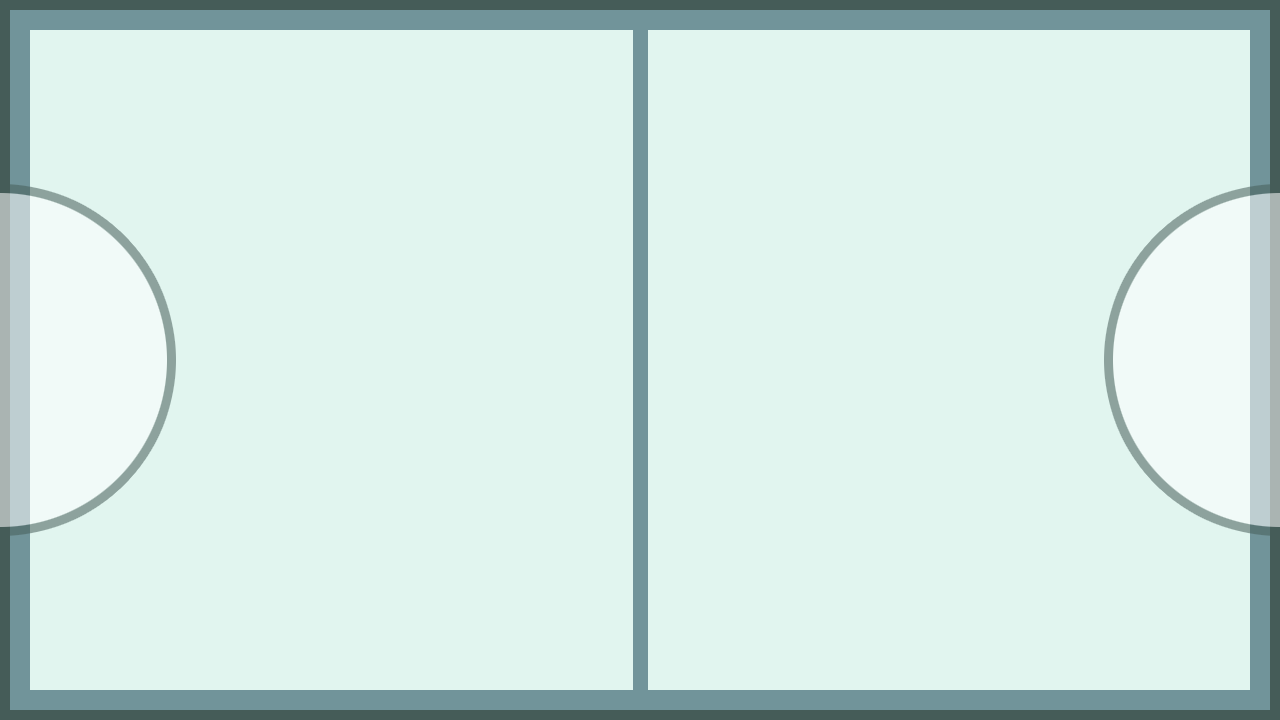
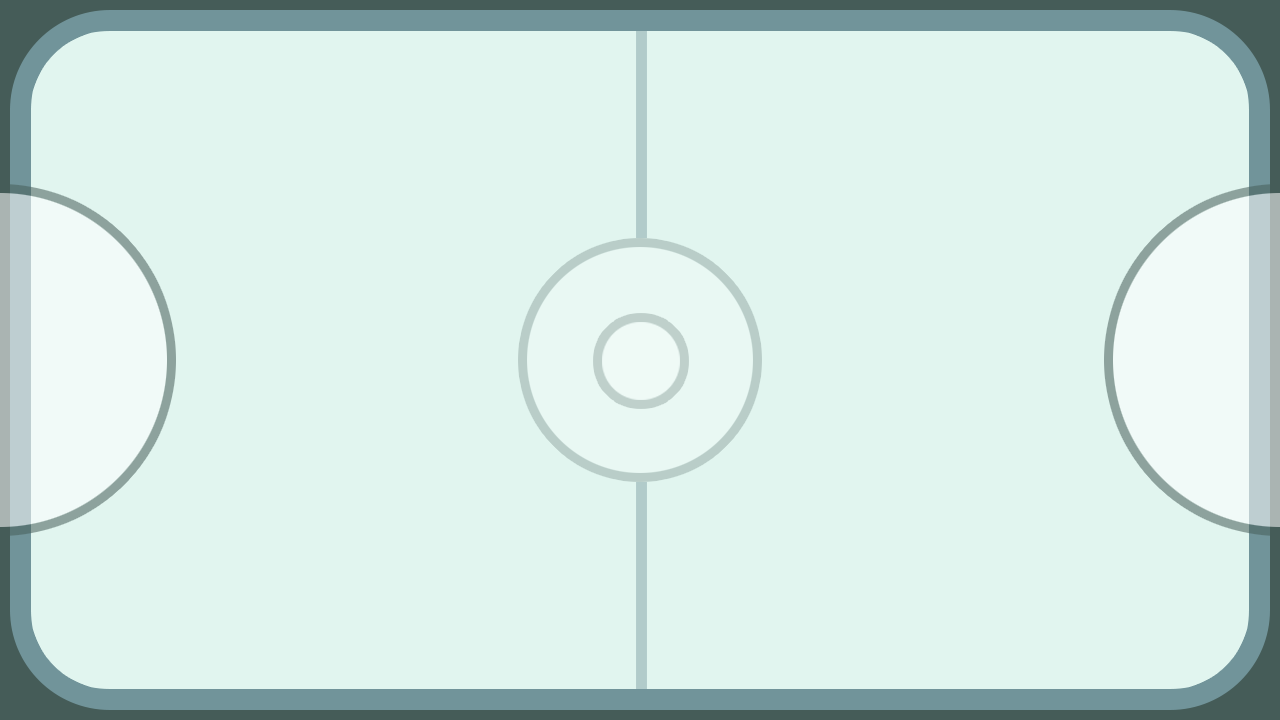
🔥  Added corners to Hockey

diff --git a/src/playground/spaces/Hockey.ts b/src/playground/spaces/Hockey.ts
@@ -1,18 +1,18 @@
 import { Engine } from '@ecs/ecs/Engine';
 import { Entity } from '@ecs/ecs/Entity';
+import { Query } from '@ecs/ecs/Query';
+import MathHelper from '@ecs/math/MathHelper';
 import PhysicsBody from '@ecs/plugins/physics/components/PhysicsBody';
 import PhysicsSystem from '@ecs/plugins/physics/systems/PhysicsSystem';
 import Position from '@ecs/plugins/Position';
 import Space from '@ecs/plugins/space/Space';
+import { all, makeQuery } from '@ecs/utils/QueryHelper';
 import Moveable from '../components/Moveable';
 import { Paddle } from '../components/Paddle';
 import { Puck } from '../components/Puck';
 import Score from '../components/Score';
 import { Wall } from '../components/Wall';
 import MovementSystem from '../systems/MovementSystem';
-import PuckScoreSystem from '../systems/PuckScoreSystem';
-import { Query } from '@ecs/ecs/Query';
-import { makeQuery, all } from '@ecs/utils/QueryHelper';
 
 // http://www.iforce2d.net/b2dtut/collision-filtering
 export enum CollisionCategory {
@@ -124,7 +124,57 @@ export default class Hockey extends Space {
 		const rightGoal = this.createGoal(1280 - 5, 192 + 336 / 2);
 		const leftGoal = this.createGoal(5, 192 + 336 / 2);
 
-		return [top, bottom, rightTop, rightBottom, leftTop, leftBottom, leftGoal, rightGoal];
+		const dist = 30;
+
+		const topLeftCorner = this.createCorner(dist, dist, 180);
+		const topRightCorner = this.createCorner(1280 - dist, dist, 270);
+		const bottomRightCorner = this.createCorner(1280 - dist, 720 - dist, 0);
+		const bottomLeftCorner = this.createCorner(dist, 720 - dist, 90);
+
+		return [
+			top,
+			bottom,
+			rightTop,
+			rightBottom,
+			leftTop,
+			leftBottom,
+			leftGoal,
+			rightGoal,
+			topLeftCorner,
+			topRightCorner,
+			bottomRightCorner,
+			bottomLeftCorner
+		];
+	}
+
+	createCorner(x: number, y: number, rotation = 0, angle = 90, size = 100, amount = 10) {
+		const anglePerAmount = angle / amount;
+
+		const points = [];
+
+		const halfAngle = angle / 2;
+
+		for (let index = 0; index < amount + 1; index++) {
+			points.push({
+				x: Math.cos(MathHelper.toRadians(rotation + index * anglePerAmount)) * size,
+				y: Math.sin(MathHelper.toRadians(rotation + index * anglePerAmount)) * size
+			});
+		}
+
+		points.push({
+			x: Math.cos(MathHelper.toRadians(rotation + halfAngle)) * (size * 1.5),
+			y: Math.sin(MathHelper.toRadians(rotation + halfAngle)) * (size * 1.5)
+		});
+
+		return new Entity()
+			.add(Position, { x, y })
+			.add(Wall)
+			.add(
+				PhysicsBody.fromVertices(points, {
+					isStatic: true,
+					collisionFilter: { category: CollisionCategory.Wall, mask: CollisionCategory.Player | CollisionCategory.Puck }
+				})
+			);
 	}
 
 	createWall(x: number, y: number, width: number, height): Entity {

diff --git a/src/playground/Client.ts b/src/playground/Client.ts
@@ -26,6 +26,7 @@ import Splash from './spaces/Splash';
 import HudSystem, { Hud } from './systems/HudSystem';
 import { PuckSoundSystem } from './systems/PuckSoundSystem';
 import Score from './components/Score';
+import PhysicsRenderSystem from '@ecs/plugins/physics/systems/PhysicsRenderSystem';
 
 class PixiEngine extends TickerEngine {
 	protected spaces: Map<string, Space>;
@@ -96,7 +97,6 @@ class ClientHockey extends Hockey {
 
 		super.setup();
 
-		// this.addSystem(new PhysicsRenderSystem(this));
 		this.addSystem(new PuckSoundSystem());
 
 		const hud = this.hud();
@@ -107,6 +107,8 @@ class ClientHockey extends Hockey {
 		this.addSystem(
 			new WorldSnapshotHandlerSystem<Snapshot>((e, p) => this.processSnapshot(p))
 		);
+
+		this.addSystem(new PhysicsRenderSystem());
 	}
 
 	processSnapshot({ snapshot }: WorldSnapshot<Snapshot>) {

diff --git a/src/engine/plugins/physics/systems/PhysicsSystem.ts b/src/engine/plugins/physics/systems/PhysicsSystem.ts
@@ -5,6 +5,9 @@ import { all, makeQuery } from '@ecs/utils/QueryHelper';
 import { Body, Engine, Events, World } from 'matter-js';
 import PhysicsBody from '../components/PhysicsBody';
 import { CollisionEvent } from './PhysicsCollisionSystem';
+import { injectPolyDecomp } from '../utils/PhysicsUtils';
+
+injectPolyDecomp();
 
 export default class PhysicsSystem extends IterativeSystem {
 	public readonly engine: Engine;
@@ -45,7 +48,11 @@ export default class PhysicsSystem extends IterativeSystem {
 	}
 
 	private entityFromBody(body: Body): Entity {
-		return this.entities.find(entity => entity.get(PhysicsBody).body == body);
+		return this.entities.find(entity => {
+			const physicsBody = entity.get(PhysicsBody);
+
+			return physicsBody.body == body || physicsBody.parts.includes(body);
+		});
 	}
 
 	private clearCollisions() {

diff --git a/src/engine/plugins/physics/utils/PhysicsUtils.ts b/src/engine/plugins/physics/utils/PhysicsUtils.ts
@@ -1,0 +1,18 @@
+import decomp from 'poly-decomp';
+
+// API: https://brm.io/matter-js/docs/classes/Bodies.html
+// Code: https://brm.io/matter-js/docs/files/src_factory_Bodies.js.html#l179
+//
+// In MatterJs when using `Bodies.fromVertices` it attempts to pull the 'poly-decomp'
+// library in from a global window var. This is a work around for this.
+//
+// Alternativly we could pull the code form 'Bodies.fromVertices' and tweak it to
+// use the library as a normal import or not at all.
+export const injectPolyDecomp = () => {
+	// For NodeJS env
+	if (typeof window === 'undefined') {
+		(global as any).window = {};
+	}
+
+	((<any>window) as any).decomp = decomp;
+};

diff --git a/src/engine/plugins/physics/systems/PhysicsRenderSystem.ts b/src/engine/plugins/physics/systems/PhysicsRenderSystem.ts
@@ -27,9 +27,11 @@ export default class PhysicsRenderSystem extends IterativeSystem {
 	protected world: World;
 	protected graphics: Graphics;
 
-	constructor(engine: Engine) {
+	constructor() {
 		super(makeQuery());
+	}
 
+	onAddedToEngine(engine: Engine) {
 		const physicsSystem = engine.getSystem(PhysicsSystem);
 		if (!physicsSystem) {
 			throw new Error('no physics system in engine');

diff --git a/.eslintrc.js b/.eslintrc.js
@@ -41,7 +41,8 @@ module.exports = {
 					'Chamferable',
 					'Collinear',
 					'Centre',
-					'Stateful'
+					'Stateful',
+					'Decomp'
 				],
 				skipIfMatch: [
 					'http://[^s]*',
